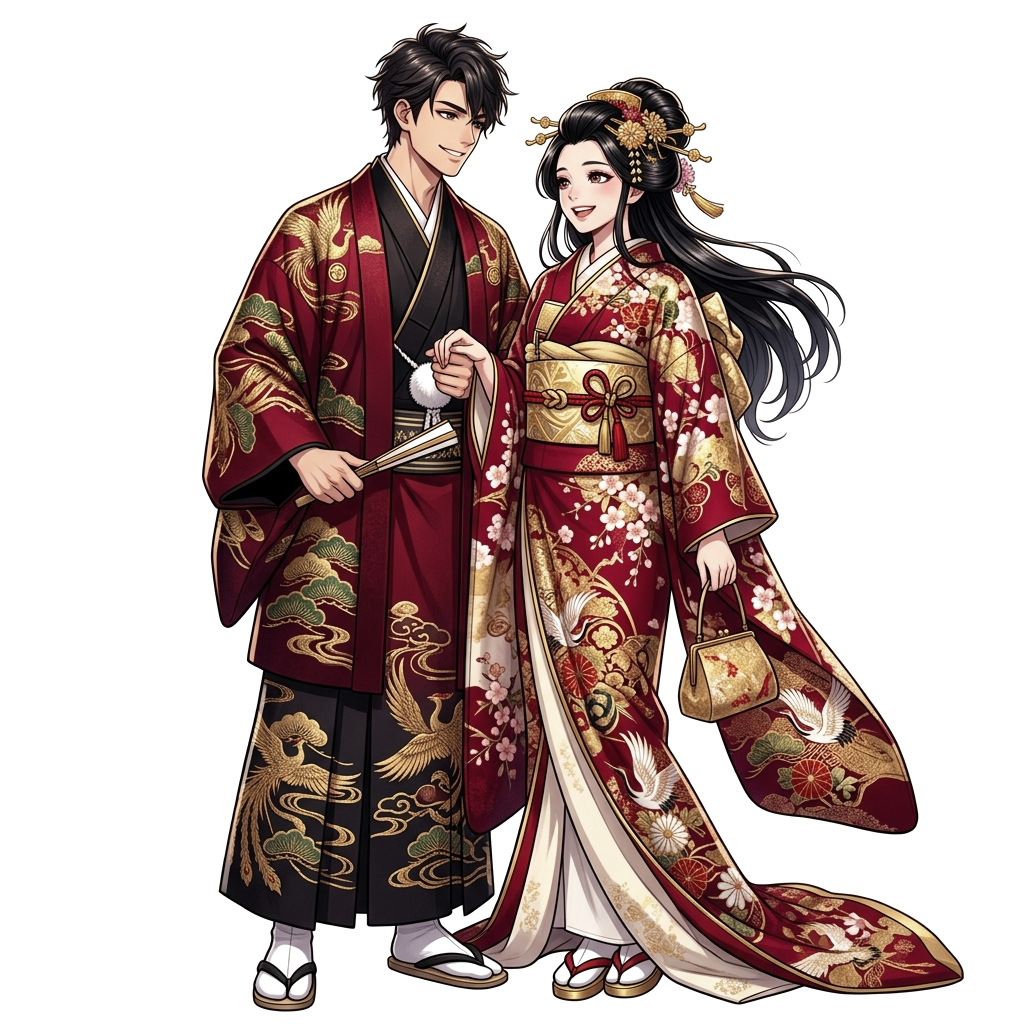
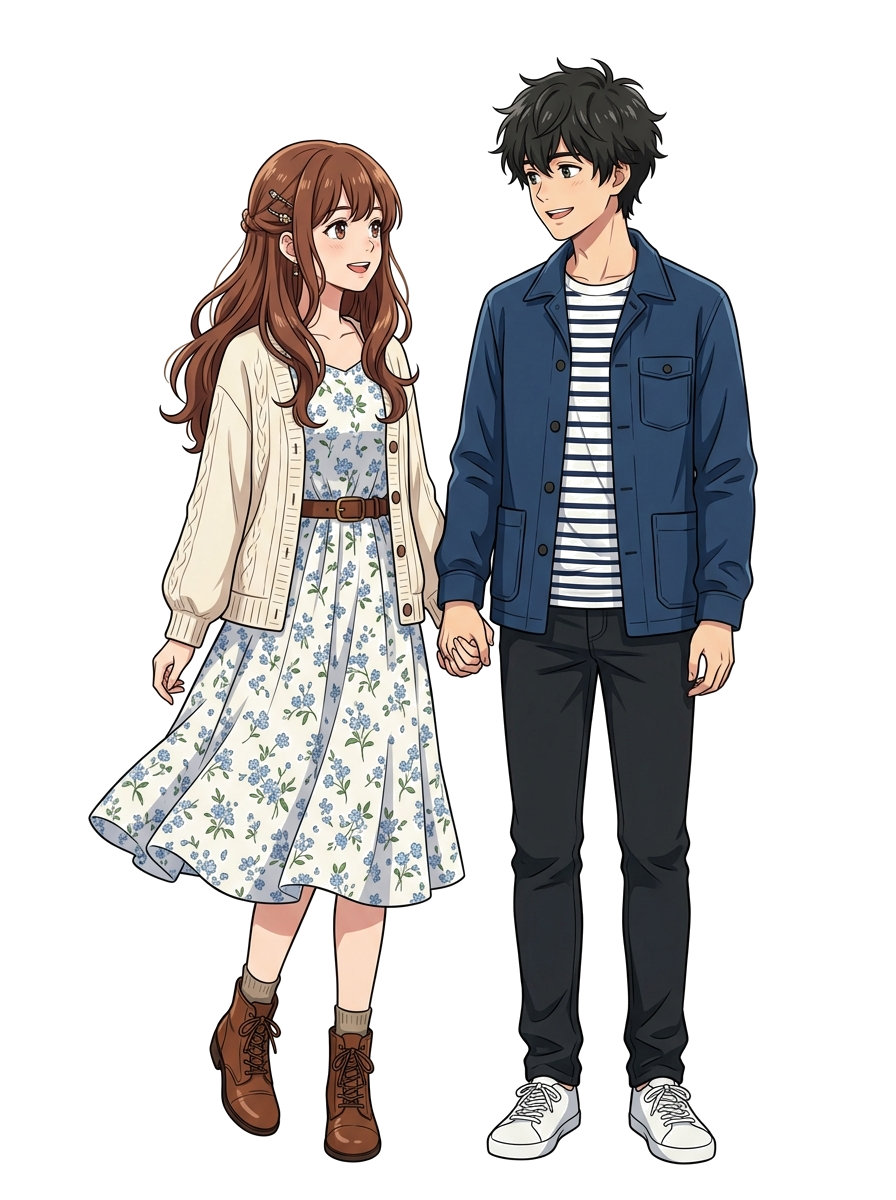
Fix couple texture stretching with dynamic aspect ratios and sRGB un-faded color rendering, update Wildest Dreams couple

diff --git a/index.html b/index.html
@@ -727,8 +727,10 @@
         // --- 8. HELPER FUNCTIONS & EXACT CHARACTER ASPECT RATIOS ---
         function createBillboard(texPath, width, height) {
             const tex = textureLoader.load(texPath);
+            if (THREE.SRGBColorSpace) tex.colorSpace = THREE.SRGBColorSpace;
+            else if (THREE.sRGBEncoding) tex.encoding = THREE.sRGBEncoding;
             tex.minFilter = THREE.LinearFilter;
-            const mat = new THREE.MeshBasicMaterial({ map: tex, transparent: true, side: THREE.DoubleSide, alphaTest: 0.12 });
+            const mat = new THREE.MeshBasicMaterial({ map: tex, transparent: true, side: THREE.DoubleSide, alphaTest: 0.12, toneMapped: false });
             return new THREE.Mesh(new THREE.PlaneGeometry(width, height), mat);
         }
 
@@ -738,26 +740,24 @@
             3: 616 / 934,   // 0.660
             4: 520 / 1002,  // 0.519
             5: 694 / 989,   // 0.702
-            6: 3 / 4,   // 0.709 - Clean spring couple cutout (zero background remnants)
-            7: 527 / 955,   // 0.552 - Clean riverwalk couple cutout
+            6: 3 / 4,       // 0.750
+            7: 527 / 955,   // 0.552
             8: 772 / 1000   // 0.772
         };
 
         function createCharacterOnRoad(id, imgPath, zPos, xPos = 0, height = 5.6) {
-            const aspect = COUPLE_ASPECTS[id] || 0.75;
-            const width = height * aspect;
+            const initialAspect = COUPLE_ASPECTS[id] || 0.75;
+            let width = height * initialAspect;
 
-            const tex = textureLoader.load(imgPath);
-            tex.minFilter = THREE.LinearFilter;
             const mat = new THREE.MeshBasicMaterial({
-                map: tex,
                 transparent: true,
                 side: THREE.DoubleSide,
                 alphaTest: 0.15,
-                depthWrite: true
+                depthWrite: true,
+                toneMapped: false
             });
+
             const mesh = new THREE.Mesh(new THREE.PlaneGeometry(width, height), mat);
-            // Lower Y slightly (-0.32) so car tires and couple feet sit firmly flush touching the road!
             const yOffset = id === 1 ? -0.36 : -0.25;
             mesh.position.set(xPos, -1.34 + (height / 2) + yOffset, zPos);
 
@@ -765,6 +765,22 @@
             sh.rotation.x = -Math.PI / 2;
             sh.position.set(xPos, -1.33, zPos);
             multiplaneGroup.add(sh);
+
+            // DYNAMIC UN-STRETCHED ASPECT RATIO ADJUSTMENT FROM LOADED IMAGE DIMENSIONS
+            const tex = textureLoader.load(imgPath, (t) => {
+                if (t.image && t.image.width && t.image.height) {
+                    const actualAspect = t.image.width / t.image.height;
+                    const correctW = height * actualAspect;
+                    mesh.geometry.dispose();
+                    mesh.geometry = new THREE.PlaneGeometry(correctW, height);
+                    sh.geometry.dispose();
+                    sh.geometry = new THREE.PlaneGeometry(correctW * 0.92, height * 0.32);
+                }
+            });
+            if (THREE.SRGBColorSpace) tex.colorSpace = THREE.SRGBColorSpace;
+            else if (THREE.sRGBEncoding) tex.encoding = THREE.sRGBEncoding;
+            tex.minFilter = THREE.LinearFilter;
+            mat.map = tex;
 
             mesh.userData.noFade = true; // COUPLE IMAGES NEVER FADE OUT OR IN!
             multiplaneGroup.add(mesh);
